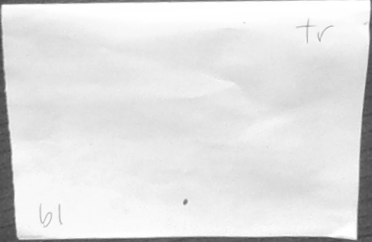
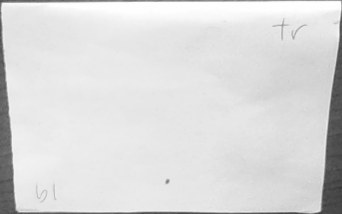
fix inverted axes

diff --git a/laser/camera.py b/laser/camera.py
@@ -68,6 +68,7 @@ def get_laser_loc_blob(gray):
 
 def get_laser_loc_raw(gray):
     minVal, maxVal, minLoc, maxLoc = cv2.minMaxLoc(gray)
+    print(maxVal, maxLoc)
     if maxVal < 254:  # if too dark treat as no laser
         return np.array([-1, -1])
     else:  # return (x_perc, y_perc)
@@ -114,8 +115,12 @@ def calibrate_box(box, img):
     print("box", box)
     print(maxWidth, maxHeight)
 
+    # dst = np.array(
+    #     [[0, 0], [maxWidth - 1, 0], [maxWidth - 1, maxHeight - 1], [0, maxHeight - 1]],
+    #     dtype="float32",
+    # )
     dst = np.array(
-        [[0, 0], [maxWidth - 1, 0], [maxWidth - 1, maxHeight - 1], [0, maxHeight - 1]],
+        [[maxWidth - 1, maxHeight - 1], [0, maxHeight - 1], [0, 0], [maxWidth - 1, 0]],
         dtype="float32",
     )
 
@@ -158,8 +163,8 @@ while True:
             # update_dict(gray)
             mat = calibrate_box(box, gray)
             state = DETECT_LASER
-            cap.set(cv2.CAP_PROP_AUTO_EXPOSURE, 0)
-            cap.set(cv2.CAP_PROP_EXPOSURE, -2.0)
+            # cap.set(cv2.CAP_PROP_AUTO_EXPOSURE, 0)
+            # cap.set(cv2.CAP_PROP_EXPOSURE, -2.0)
         detect_box(gray)
     elif state == DETECT_LASER:
         detect_laser(gray)
